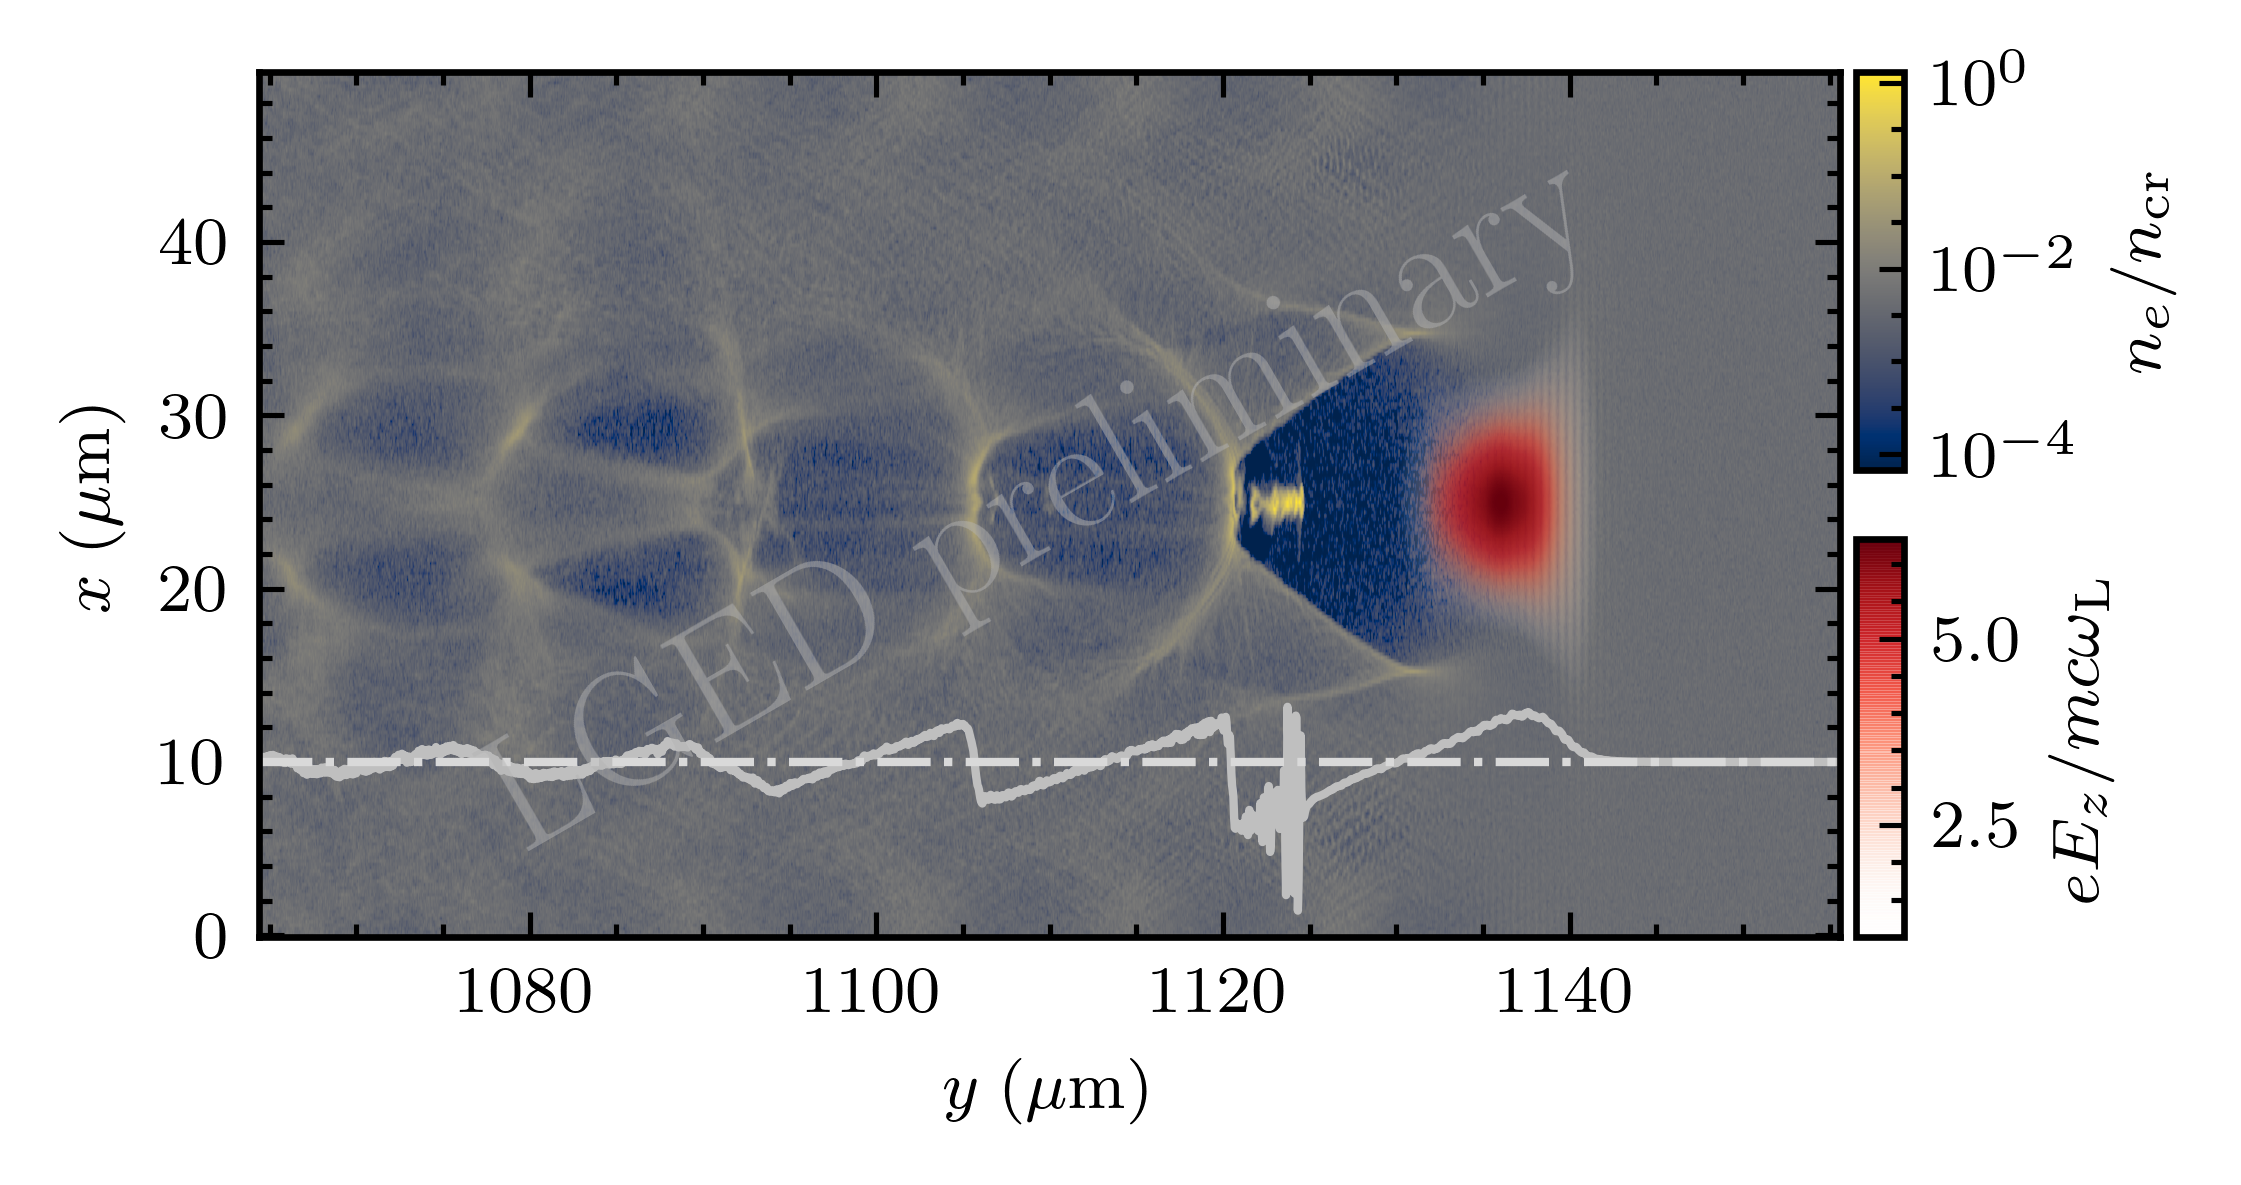
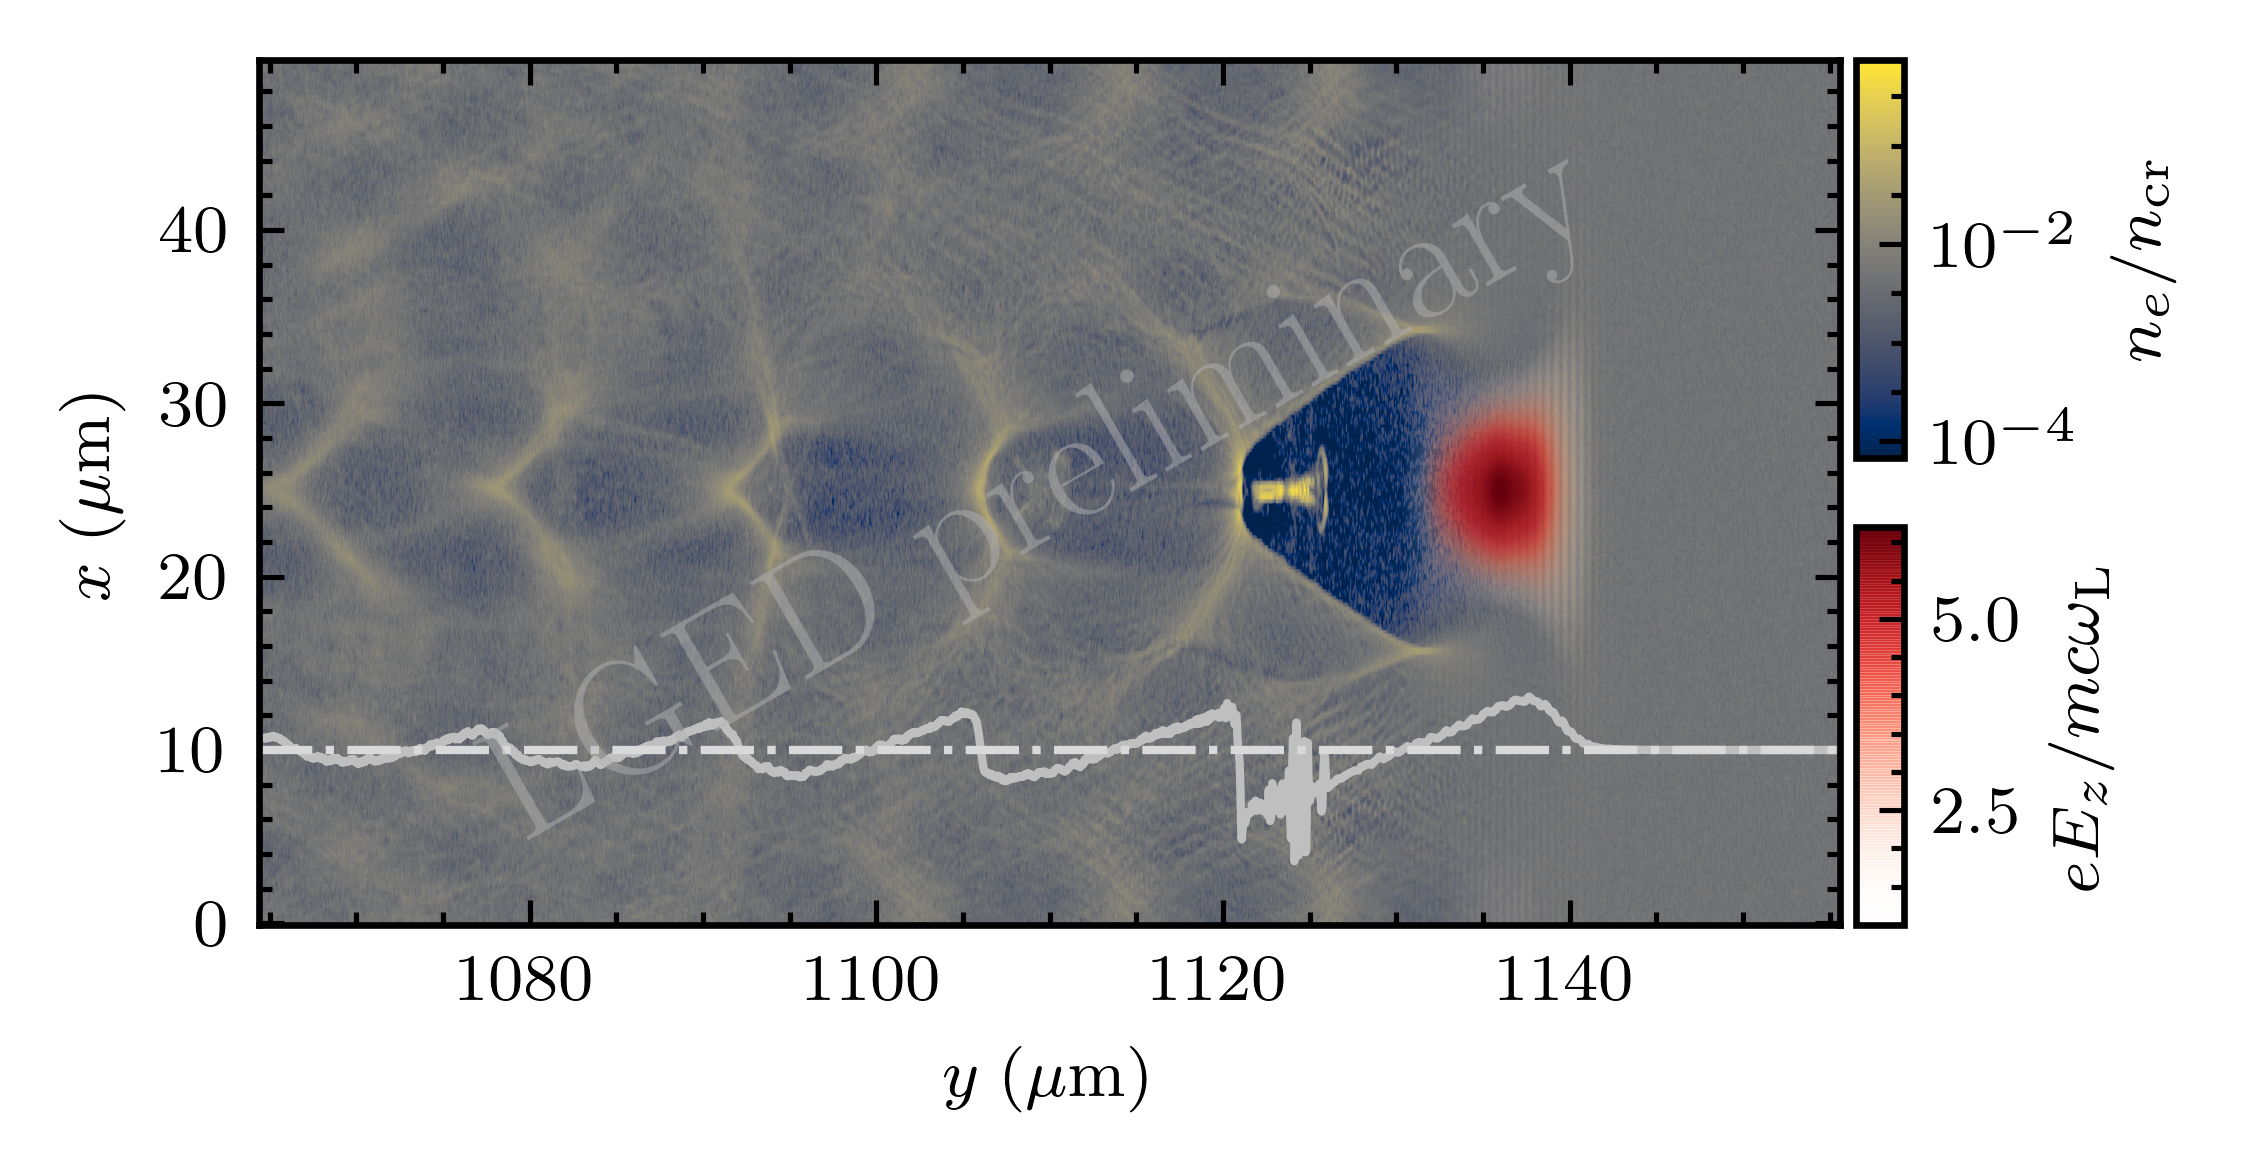
modify README

diff --git a/laser_density.py b/laser_density.py
@@ -32,18 +32,18 @@ n_c = laser.ncrit.to_value("1/m**3")
 E0 = (laser.E0 / a0).to_value("volt/m")
 # 4013376052599.5396
 
-p = "/media/ong/WORKDIR2/betatron0014/simOutput/h5"
+p = "/media/ong/WORKDIR2/betatron0009_03/simOutput/h5"
 ts = addons.LpaDiagnostics(p)
-
+iteration = 108500
 rho, rho_info = ts.get_field(
     field="e_density",
-    iteration=50000,
+    iteration=iteration,
     slice_across="z",
 )
 electric, electric_info = ts.get_field(
     field="E",
     coord="z",
-    iteration=50000,
+    iteration=iteration,
     slice_across="z",
 )
 # get laser envelope
@@ -55,7 +55,7 @@ envelope = np.abs(e_complx)
 e_y_of_y, e_y_of_y_info = ts.get_field(
     field="E",
     coord="y",
-    iteration=50000,
+    iteration=iteration,
     slice_across=["z", "x"],
 )
 
@@ -122,7 +122,7 @@ ax.set_xlabel("$y \;(\mu \mathrm{m} )$")
 ax.minorticks_on()
 
 fig.savefig(
-    "laser_density.png",
+    f"{p}/laser_density_{iteration}.png",
     dpi=600,
     transparent=False,
     bbox_inches="tight",

diff --git a/README.md b/README.md
@@ -19,3 +19,8 @@ $ sudo apt install dvipng texlive-latex-extra texlive-fonts-recommended cm-super
 ```
 
 ![alt text](laser_density.png)
+
+The script is developed for the generation of plots in the following publications:
+
+- J F Ong, K Seto, A C Berceanu, S Aogaki and L Neagu, Feasibility studies of an all-optical and compact γ-ray blaster using a 1 PW laser pulse, 2019 Plasma Phys. Control. Fusion 61 084009.
+- I Tazes, J F Ong, O Tesileanu, K A Tanaka, N A Papadogiannis, M Tatarakis and V Dimitriou, Target normal sheath acceleration and laser wakefield acceleration particle-in-cell simulations performance on CPU & GPU architectures for high-power laser systems, 2020 Plasma Phys. Control. Fusion 62 094005.
